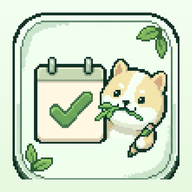
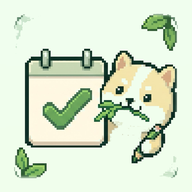
图标去掉外框，只留画面

diff --git a/index.html b/index.html
@@ -7,8 +7,8 @@
 <meta name="apple-mobile-web-app-capable" content="yes">
 <meta name="apple-mobile-web-app-status-bar-style" content="default">
 <meta name="apple-mobile-web-app-title" content="像素习惯">
-<link rel="apple-touch-icon" href="icon-180.png?v=3">
-<link rel="icon" type="image/png" href="favicon.png?v=3">
+<link rel="apple-touch-icon" href="icon-180.png?v=4">
+<link rel="icon" type="image/png" href="favicon.png?v=4">
 <title>像素习惯</title>
 <style>
   :root{
